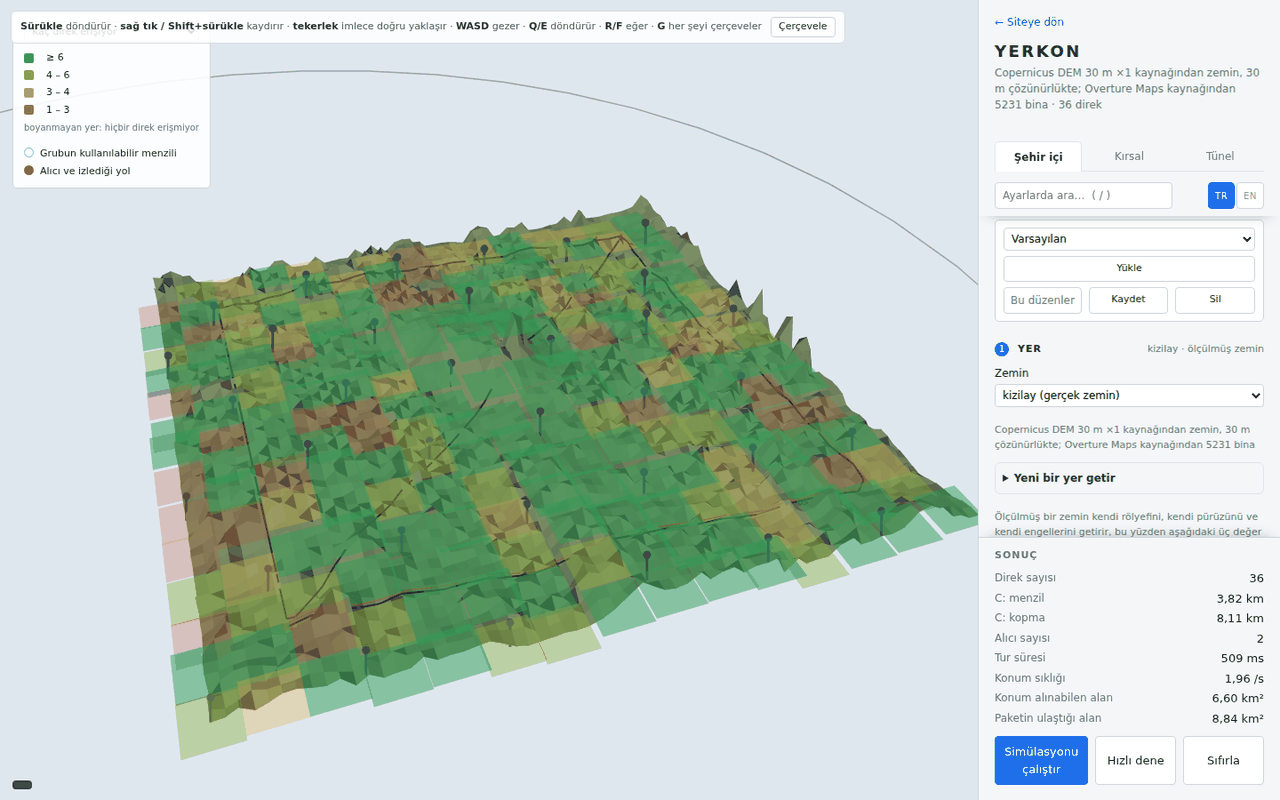
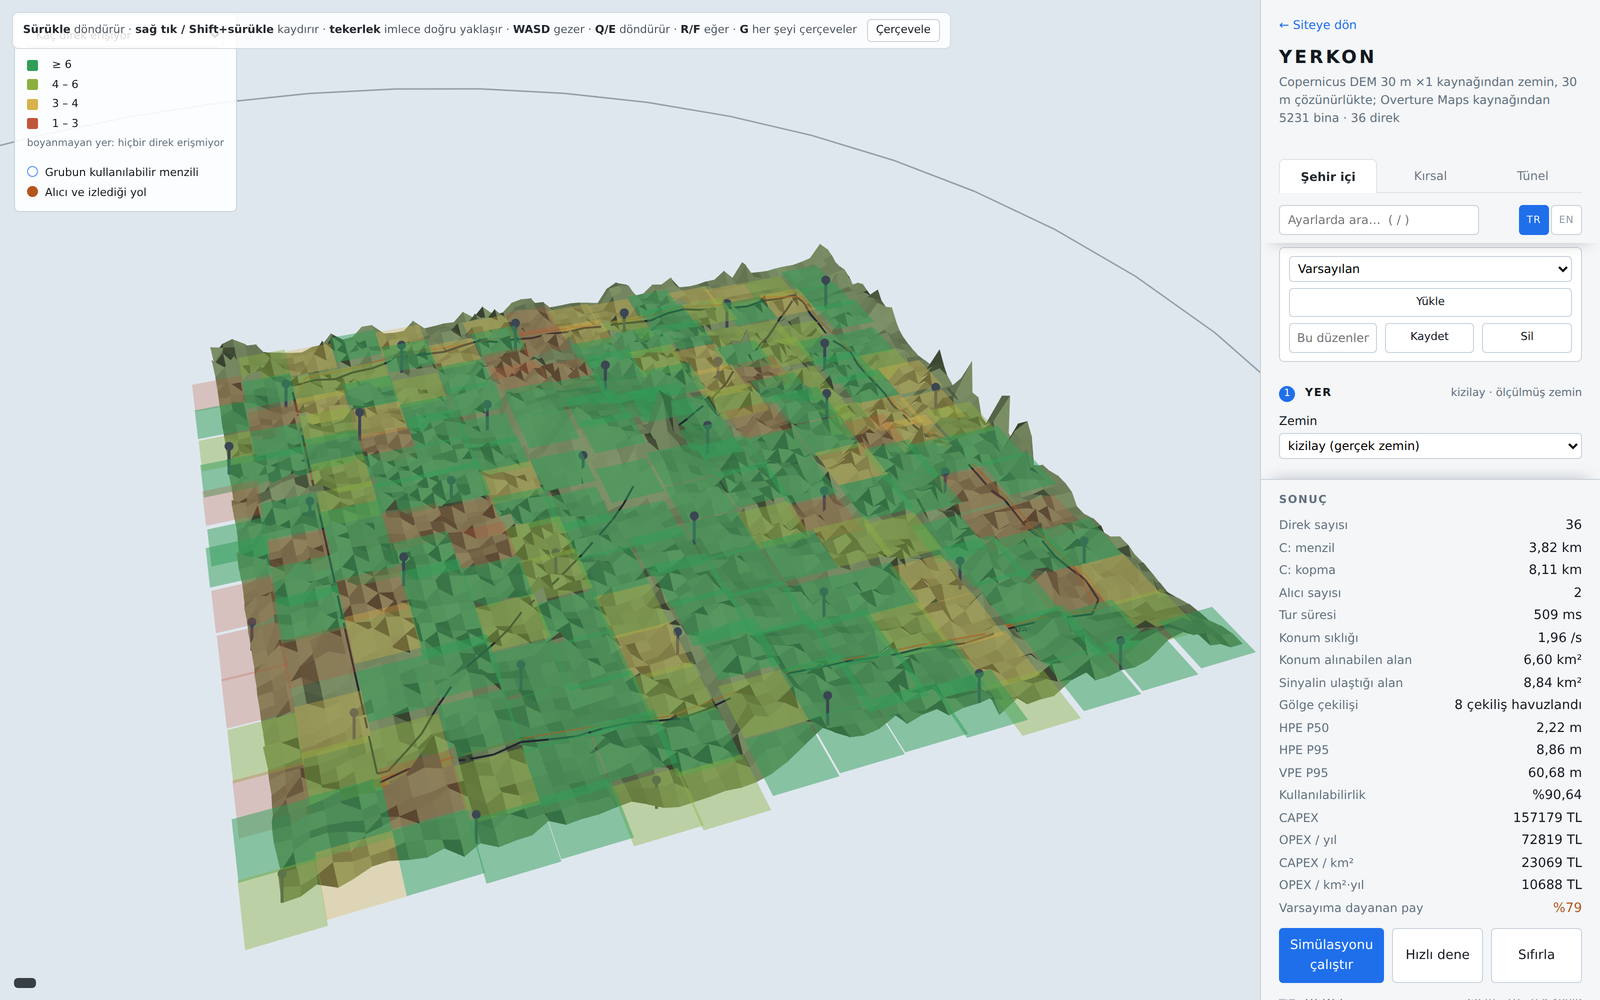
Refresh the simulator screenshot from a finished run
The picture on the simulation page was a scene with no run behind it,
and its panel still carried wording the site stopped using. This one is
the urban tab after eight draws have pooled, so the figures beside the
terrain are a real result rather than an empty panel.

It also shows the previous commit working. Before the templates read
their figures from the settings, that panel said 5,86 m where the table
says 8,84. It now says 8,86.

Availability still differs, %90,64 against the table's %83,98, and
ADR-0076 now says why rather than leaving it as a loose end. The road
is a third copy: the table builds the circuit in scenarios._circuit,
300 m in from the edge at a 150 m step, while the simulator runs it
through the seven named routes ADR-0045 introduced, with a different
inset and step. The two drive through different parts of the same site
and meet different amounts of obstruction. It does not show in the
horizontal error, because a fix that succeeds is as good on either
road; it shows in availability, which counts the fixes that never
happened.

Closing it means choosing one of them — the table moving to the route
system, or the simulator going back to _circuit — and re-running the
published rows. Recorded, not done.

The caption says the panel is that tab's own run, so nobody reads it as
the published row.

Claude-Session: https://claude.ai/code/session_01C2WViiCTTax6EFyBE8Gxxc

diff --git a/docs/simulasyon.html b/docs/simulasyon.html
@@ -17,7 +17,7 @@
 <main>
 <h1>Simülasyon</h1>
 <p class="lead">Simülasyon bu projenin bir parçası, tamamı değil. Tek bir işi vardı: karşılaştırma tablosundaki üç YERKON satırını tahminle değil, her sayısı kaynağına kadar izlenebilen bir modelle doldurmak. Sahada yapılmış bir ölçüm değildir.</p>
-<section><figure><img src="simulator.png" alt="Şehir içi satırı: Kızılay&#x27;ın gerçek arazisi, aydınlatma direklerine takılmış 36 yayın birimi, ve zemine boyanmış kapsama haritası. Renkler o noktada kaç birimin duyulduğunu gösteriyor; konum hesabı için en az dört gerekiyor."><figcaption>Şehir içi satırı: Kızılay&#x27;ın gerçek arazisi, aydınlatma direklerine takılmış 36 yayın birimi, ve zemine boyanmış kapsama haritası. Renkler o noktada kaç birimin duyulduğunu gösteriyor; konum hesabı için en az dört gerekiyor.</figcaption></figure></section>
+<section><figure><img src="simulator.png" alt="Şehir içi satırı, koşusu bitmiş hâlde: Kızılay&#x27;ın gerçek arazisi, aydınlatma direklerine takılmış 36 yayın birimi, ve zemine boyanmış kapsama haritası. Renkler o noktada kaç birimin duyulduğunu gösteriyor; konum hesabı için en az dört gerekiyor. Sağdaki panel o sekmenin kendi koşusu, sekiz gölge çekilişi havuzlanmış."><figcaption>Şehir içi satırı, koşusu bitmiş hâlde: Kızılay&#x27;ın gerçek arazisi, aydınlatma direklerine takılmış 36 yayın birimi, ve zemine boyanmış kapsama haritası. Renkler o noktada kaç birimin duyulduğunu gösteriyor; konum hesabı için en az dört gerekiyor. Sağdaki panel o sekmenin kendi koşusu, sekiz gölge çekilişi havuzlanmış.</figcaption></figure></section>
 <section><h2>Arazi gerçek</h2><ul><li>Üç satır da Ankara&#x27;nın gerçek arazisi üzerinde koşuldu. Yükseklik verisi Copernicus&#x27;un 30 metrelik haritasından bir kez indirilip paketin içine kondu, yani depoyu indiren biri tabloyu internete hiç çıkmadan yeniden üretebiliyor.</li><li>Şehir Kızılay: bir kenarı üç kilometre, en alçak ve en yüksek noktası arasında 91 metre fark var. Açık arazi Polatlı ovası: bir kenarı yirmi kilometre, 486 metre yükseklik farkıyla. Tünel ise Kızılcahamam&#x27;daki dağların içinden geçen gerçek bir 2 kilometrelik güzergâh.</li><li>Hiçbir yerde &quot;düz zemin&quot; seçeneği yok. Düz bir yüzey modelin çizebileceği en tarafsız arazi değil, en elverişli arazidir: sonucu olduğundan iyi gösterirdi.</li></ul></section>
 <section><h2>Menzili tek bir hesap belirler</h2><ul><li>Kodun hiçbir yerinde &quot;azami menzil şu kadardır&quot; diye bir sayı yok. Menzil, sinyalin yolda ne kadar zayıfladığı hesaplanarak çıkıyor. Aynı hesap iki şeye birden karar veriyor: bağlantı kuruluyor mu, ve kurulduysa ne kadar hassas ölçüyor.</li><li>Sinyal alıcıya iki yoldan gelir: doğrudan, ve zeminden sekerek. Belli bir mesafeden sonra bu ikisi ters düşüp birbirini zayıflatır. O mesafe anten yüksekliğiyle birlikte arttığı için, birimi alçağa koymak menzilden götürür.</li><li>Sinyal engellerin üzerinden bükülerek geçer ve bu sırada zayıflar. Hesap, yoldaki en kötü tek engele değil bütün araziye bakıyor (ITU-R P.526-15 §4.5.2, delta-Bullington). Kızılay&#x27;da bir bağlantının önünde ortalama üç engel var, en kötüsünde on altı.</li><li>Arazi on metrede bir okunuyor. Daha önce her bağlantı sabit 64 noktada okunuyordu; 6,9 km&#x27;lik bir kırsal bağlantıda bu 108 metrede bir demekti, ve aradaki tümsekleri atladığı için kaybı 37,60 dB yerine 31,28 dB gösteriyordu.</li><li>Bir bağlantı bu iki kaybın toplamını değil, büyüğünü öder. İkisi de aynı arazinin aynı bağlantıya yaptığını anlatıyor; toplamak aynı tepeyi iki kez saymak olurdu.</li><li>Bunların üstüne bir de gölgeleme biniyor: aynı mesafedeki iki bağlantının, arada ne olduğuna göre farklı çıkması. Yol açıkken 4 dB, kapalıyken 7,82 (3GPP TR 38.901). Rastgele olduğu için tablo tek bir çekilişi değil, sekiz çekilişin hepsini birden gösteriyor.</li></ul></section>
 <section><h2>Mesajlaşma ve konum hesabı</h2><ul><li>Mesafe hesapla çıkarılmaz, ölçülür. İki telsiz karşılıklı mesaj gönderir; SX1280&#x27;de bir gidiş geliş 47,86 milisaniye sürüyor.</li><li>Altı birimle sırayla ölçüşmek 239 milisaniye sürüyor. Bu sürede 100 km/sa giden araç 6,7 metre yol alıyor, yani bir turdaki ölçümler aynı ana ait değil. Hesap da onları aynı anda alınmış gibi kabul etmiyor.</li><li>Konumu hesaplayan kod, aracın gerçekte nerede olduğunu hiç görmez. Yalnızca şunları görür: ölçülen mesafe, birimin kurulumda ölçülmüş konumu, ölçümün saati, ve o ölçüme ne kadar güvenildiği.</li><li>Hiçbir yerde &quot;araç yol seviyesindedir&quot; varsayımı yok. Yol kenarına dizilmiş birimler hep aynı yükseklikte olduğu için yüksekliği ölçmek zor kalıyor. Tablodaki VPE sütunu bunu saklamak yerine olduğu gibi yazıyor.</li></ul></section>

diff --git a/docs/en/simulasyon.html b/docs/en/simulasyon.html
@@ -17,7 +17,7 @@
 <main>
 <h1>The simulation</h1>
 <p class="lead">The simulation is one part of this project rather than the whole of it. It had one job: to fill the three YERKON rows of the comparison table with a model whose every number can be traced, instead of with an estimate. It is not a field measurement.</p>
-<section><figure><img src="../simulator.png" alt="The urban row: the real terrain at Kızılay, 36 broadcast units on lighting columns, and the coverage painted onto the ground. The colours show how many units can be heard at that point; working out a position needs at least four."><figcaption>The urban row: the real terrain at Kızılay, 36 broadcast units on lighting columns, and the coverage painted onto the ground. The colours show how many units can be heard at that point; working out a position needs at least four.</figcaption></figure></section>
+<section><figure><img src="../simulator.png" alt="The urban row with its run finished: the real terrain at Kızılay, 36 broadcast units on lighting columns, and the coverage painted onto the ground. The colours show how many units can be heard at that point; working out a position needs at least four. The panel on the right is that tab&#x27;s own run, pooled over eight draws of the shadows."><figcaption>The urban row with its run finished: the real terrain at Kızılay, 36 broadcast units on lighting columns, and the coverage painted onto the ground. The colours show how many units can be heard at that point; working out a position needs at least four. The panel on the right is that tab&#x27;s own run, pooled over eight draws of the shadows.</figcaption></figure></section>
 <section><h2>The ground is real</h2><ul><li>All three rows stand on real ground near Ankara, fetched once from the Copernicus 30 m DEM and baked into the package, so a clone reproduces the table without touching the network.</li><li>The city is Kızılay: three kilometres on a side, with 91 metres between its lowest and highest point. The open country is the Polatlı plain, twenty kilometres on a side with 486 metres of it. The tunnel is a real two kilometre bore through the mountains at Kızılcahamam.</li><li>Nowhere is there a &quot;flat ground&quot; option. A flat surface is not the most neutral terrain the model can draw, it is the most favourable one: it would make the result look better than it is.</li></ul></section>
 <section><h2>One calculation decides the range</h2><ul><li>Nowhere in the code is there a number saying &quot;the maximum range is this&quot;. Range comes out of working out how much the signal weakens on its way. The same calculation decides two things at once: whether the link holds, and how precisely it measures when it does.</li><li>The signal reaches the receiver two ways: directly, and bouncing off the ground. Past a certain distance those two fall out of step and weaken each other. That distance grows with antenna height, so mounting a unit low costs range.</li><li>The signal bends over obstacles and weakens doing it. The calculation looks at the whole terrain rather than the worst single obstacle on the path (ITU-R P.526-15 §4.5.2, delta Bullington). A link across Kızılay has three obstacles in front of it at the median, sixteen at the worst.</li><li>The terrain is read every ten metres. Before, every link was read at a fixed 64 points; on a 6,9 km rural link that meant every 108 metres, and skipping the rises in between put the loss at 31,28 dB where the answer is 37,60.</li><li>A link pays the larger of those two losses, not their sum. Both describe what the same terrain does to the same link, and adding them would count the same hill twice.</li><li>Shadowing sits on top of those: two links the same distance apart come out different depending on what stands between. 4 dB with a clear path, 7,82 without (3GPP TR 38.901). It is random, so the table pools all eight draws rather than showing one.</li></ul></section>
 <section><h2>The messages and the position</h2><ul><li>A distance is measured rather than calculated. Two radios send messages back and forth; on the SX1280 one there-and-back takes 47,86 milliseconds.</li><li>Measuring against six units in turn takes 239 milliseconds. A car doing 100 km/h covers 6,7 metres in that time, so the measurements in one round do not belong to one instant. The calculation does not pretend they do.</li><li>The code that works out the position never sees where the vehicle really is. It sees only these: the measured distance, the unit&#x27;s position as surveyed at installation, the time of the measurement, and how much that measurement is trusted.</li><li>Nowhere is there an assumption that the vehicle sits at road level. Units strung along a roadside are all at much the same height, which leaves the vertical hard to measure. The VPE column writes that down rather than hiding it.</li></ul></section>

diff --git a/src/yerkon/viewer/pages.py b/src/yerkon/viewer/pages.py
@@ -1322,16 +1322,19 @@ SIMULATION = Page(
             kind="picture",
             picture="simulator.png",
             lines=(_w(
-                "Şehir içi satırı: Kızılay'ın gerçek arazisi, "
-                "aydınlatma direklerine takılmış 36 yayın birimi, ve "
-                "zemine boyanmış kapsama haritası. Renkler o noktada kaç "
-                "birimin duyulduğunu gösteriyor; konum hesabı için en az "
-                "dört gerekiyor.",
-                "The urban row: the real terrain at Kızılay, 36 broadcast "
-                "units on lighting columns, and the coverage painted onto "
-                "the ground. The colours show how many units can be heard "
-                "at that point; working out a position needs at least "
-                "four.",
+                "Şehir içi satırı, koşusu bitmiş hâlde: Kızılay'ın "
+                "gerçek arazisi, aydınlatma direklerine takılmış 36 yayın "
+                "birimi, ve zemine boyanmış kapsama haritası. Renkler o "
+                "noktada kaç birimin duyulduğunu gösteriyor; konum hesabı "
+                "için en az dört gerekiyor. Sağdaki panel o sekmenin "
+                "kendi koşusu, sekiz gölge çekilişi havuzlanmış.",
+                "The urban row with its run finished: the real terrain "
+                "at Kızılay, 36 broadcast units on lighting columns, and "
+                "the coverage painted onto the ground. The colours show "
+                "how many units can be heard at that point; working out a "
+                "position needs at least four. The panel on the right is "
+                "that tab's own run, pooled over eight draws of the "
+                "shadows.",
             ),),
         ),
         Part(

diff --git a/docs/adr/0076-simulator-tabloyu-uretmeli.md b/docs/adr/0076-simulator-tabloyu-uretmeli.md
@@ -50,8 +50,11 @@ Sınama önce yazıldı ve iki kaymayı da yakaladı.
 
 ## Sonuçlar
 
-Simülatörü açıp çalıştırmak yayımlanan satırı üretiyor. Panelin
-söylediğiyle tablonun söylediği aynı şey.
+Şehir içi sekmesinde panel **HPE P95 8,86 m** diyor, tablo 8,84.
+Düzeltmeden önce 5,86 diyordu.
+
+Kullanılabilirlik hâlâ ayrışıyor: panel %90,64, tablo %83,98. Sebebi
+aşağıda; kapatılmadı.
 
 Şehir içi sekmesi artık 600 saniye sürüyor, yani bir koşu 240
 saniyelikten uzun. Bedeli bu; karşılığı panelin doğru sayıyı
@@ -73,3 +76,20 @@ daha doğru olurdu; bu ADR yalnızca iki kopyayı bire indiriyor.
 tolerans hâlâ şablonda yazılı. Bunların hiçbiri şu an kaymış değil, ve
 sınama direk sayısı ile yolculuk süresini tuttuğu için bir kayma
 sessiz kalmaz; ama aynı kopya sorunu orada da duruyor.
+
+**Yol üçüncü bir kopya ve öyle kaldı.** Kalan kullanılabilirlik farkı
+buradan geliyor. Tablo güzergâhı `scenarios._circuit` ile kuruyor: 300
+metre içeriden, 150 metre adımla bir tur. Simülatör ise ADR-0045 ile
+gelen yedi adlı güzergâh sisteminden geçiriyor, farklı bir iç boşluk ve
+farklı bir adımla. İki yol aynı sahanın farklı yerlerinden geçiyor,
+dolayısıyla farklı miktarda engelle karşılaşıyor.
+
+Bu, yatay hatada görünmüyor — başarılı sabitlemelerin hatası iki yolda
+da aynı — ama kullanılabilirlikte görünüyor, çünkü o, sabitlemenin hiç
+üretilememesini sayıyor.
+
+Kapatmak ikisinden birini seçmek demek: ya tablo yedi güzergâh
+sistemine geçecek, ya simülatör `_circuit`'e dönecek. İlki doğru yön
+gibi duruyor ama ADR-0045 o sistemi bir sebeple kurmuş ve tablonun
+yayımlanmış satırlarını yeniden koşmayı gerektirir. Burada kayıt
+altına alınıyor, yapılmıyor.
